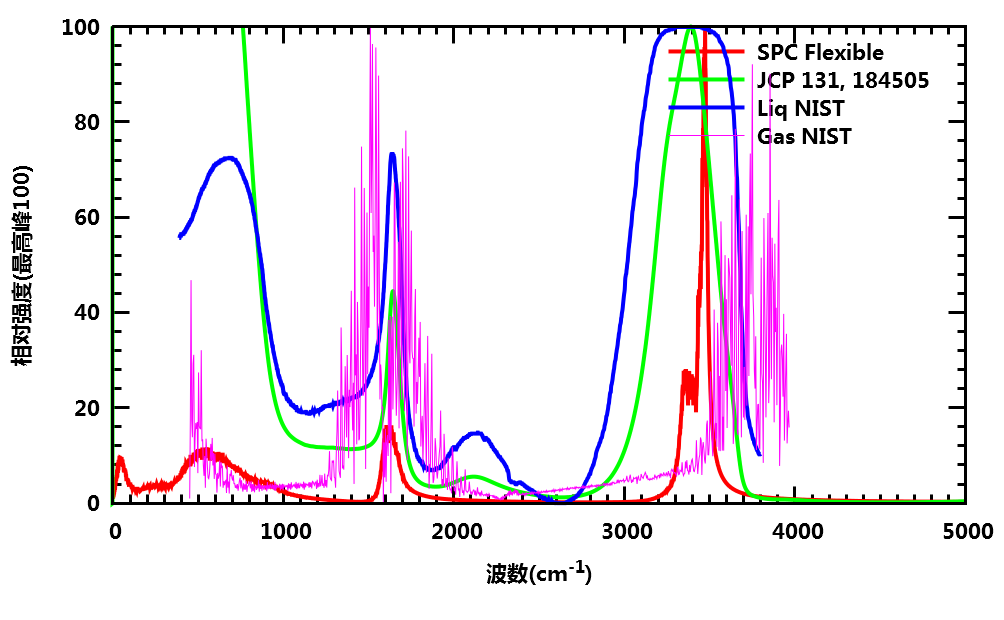
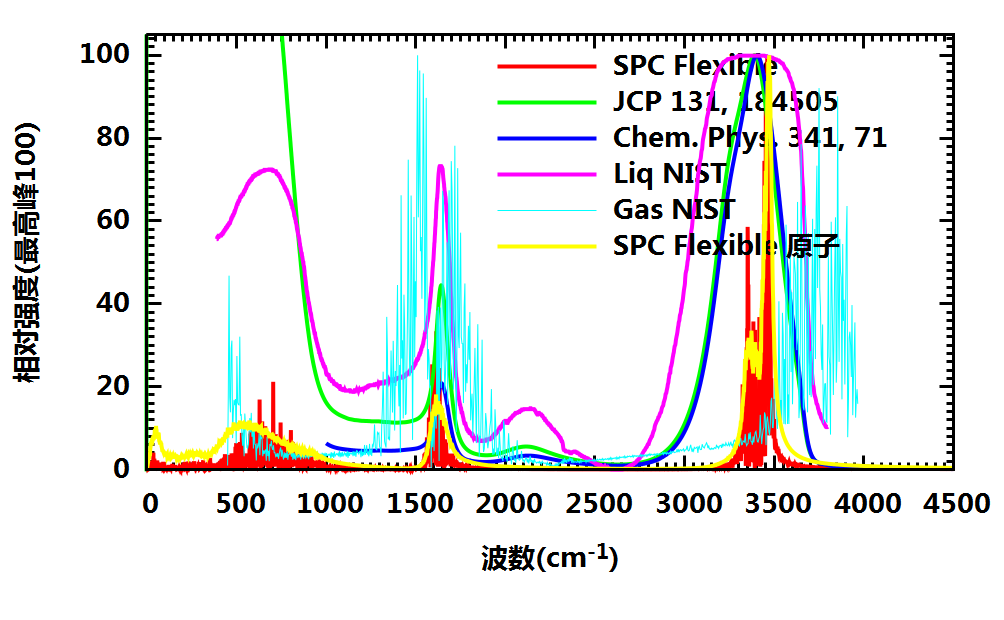
regular

Changed region(s): [[0.0, 0.0306, 0.988, 0.95]]

diff --git a/_posts/2017-08-20-使用GROMACS计算红外光谱.md b/_posts/2017-08-20-使用GROMACS计算红外光谱.md
@@ -7,7 +7,8 @@
  - gmx
 ---
 
-- 2017-08-20 14:13:12
+- 2017-08-20 14:13:12 初稿
+- 2018-05-03 19:04:27 修订
 
 上一篇博文 [【整理】使用分子动力学模拟红外光谱](http://jerkwin.github.io/2017/08/16/%E6%95%B4%E7%90%86-%E4%BD%BF%E7%94%A8%E5%88%86%E5%AD%90%E5%8A%A8%E5%8A%9B%E5%AD%A6%E6%A8%A1%E6%8B%9F%E7%BA%A2%E5%A4%96%E5%85%89%E8%B0%B1/) 中整理了根据分子动力学模拟计算红外光谱的理论基础知识, 既然已经知道了计算方法, 剩下的就是如何实现了.
 
@@ -60,7 +61,7 @@
 43
 44
 45
-46</pre></div></td><td class="code"><div class="highlight" style="background: #f8f8f8"><pre style="line-height: 125%"><span></span><span style="color: #B8860B">tpr</span><span style="color: #666666">=</span>topol.tpr  <span style="color: #008800; font-style: italic"># 拓扑文件名称</span>
+46</pre></div></td><td class="code"><div class="highlight"><pre style="line-height:125%"><span></span><span style="color: #B8860B">tpr</span><span style="color: #666666">=</span>topol.tpr  <span style="color: #008800; font-style: italic"># 拓扑文件名称</span>
 <span style="color: #B8860B">chg</span><span style="color: #666666">=</span>charge.dat <span style="color: #008800; font-style: italic"># 电荷文件名称</span>
 
 gmx dump -quiet -s <span style="color: #B8860B">$tpr</span> | awk -v <span style="color: #B8860B">chg</span><span style="color: #666666">=</span><span style="color: #B8860B">$chg</span> <span style="color: #BB4444">&#39;</span>
@@ -113,7 +114,7 @@ gmx dump -quiet -s <span style="color: #B8860B">$tpr</span> | awk -v <span style
 
 首先将不易读写的trr文件转换为容易读写的gro文件, 并尽量保存精度(`-ndec`的值自己把握)
 
-<div class="highlight" style="background:#f8f8f8"><pre style="line-height:125%"><span style="color:#B8860B">gmx </span>trjconv<span style="color:#666666"> -f </span>traj.trr<span style="color:#666666"> -o </span>traj_v.gro<span style="color:#666666"> -ndec </span>9
+<div class="highlight"><pre style="line-height:125%"><span style="color:#A2F">gmx</span> trjconv <span style="color:#666">-f</span> traj.trr <span style="color:#666">-o</span> traj_v.gro <span style="color:#666">-ndec</span> 9
 </pre></div>
 
 然后将其中的速度乘上前面得到的电荷值, 得到新的gro文件, 再将替换后的gro文件转换为trr文件
@@ -136,32 +137,42 @@ gmx dump -quiet -s <span style="color: #B8860B">$tpr</span> | awk -v <span style
 16
 17
 18
-19</pre></div></td><td class="code"><div class="highlight" style="background: #f8f8f8"><pre style="line-height: 125%"><span></span><span style="color: #B8860B">chg</span><span style="color: #666666">=</span>charge.dat    <span style="color: #008800; font-style: italic"># 电荷文件</span>
+19
+20
+21
+22
+23
+24</pre></div></td><td class="code"><div class="highlight"><pre style="line-height:125%"><span></span><span style="color: #B8860B">chg</span><span style="color: #666666">=</span>charge.dat    <span style="color: #008800; font-style: italic"># 电荷文件</span>
 <span style="color: #B8860B">vgro</span><span style="color: #666666">=</span>traj_v.gro   <span style="color: #008800; font-style: italic"># 含速度的gro文件</span>
 <span style="color: #B8860B">vqgro</span><span style="color: #666666">=</span>traj_vq.gro <span style="color: #008800; font-style: italic"># 含vq的gro文件</span>
 <span style="color: #B8860B">vqtrr</span><span style="color: #666666">=</span>traj_vq.trr <span style="color: #008800; font-style: italic"># 含vq的trr文件</span>
 
-awk -v <span style="color: #B8860B">chg</span><span style="color: #666666">=</span><span style="color: #B8860B">$chg</span> <span style="color: #BB4444">&#39;</span>
-BEGIN <span style="color: #666666">{</span> <span style="color: #AA22FF; font-weight: bold">while</span><span style="color: #666666">(</span>getline&lt;chg<span style="color: #666666">)</span> <span style="color: #AA22FF; font-weight: bold">if</span><span style="color: #666666">(</span><span style="color: #B8860B">$1</span>!~/#/<span style="color: #666666">)</span> q<span style="color: #666666">[</span><span style="color: #B8860B">$1</span><span style="color: #666666">]=</span><span style="color: #B8860B">$2</span> <span style="color: #666666">}</span>
+awk -v <span style="color: #B8860B">chg</span><span style="color: #666666">=</span><span style="color: #B8860B">$chg</span> <span style="color: #BB4444">&#39;&#39;</span>
+BEGIN <span style="color: #666666">{</span>
+	<span style="color: #B8860B">FMT</span><span style="color: #666666">=</span><span style="color: #BB4444">&quot;%s%15.9f%15.9f%15.9f\n&quot;</span>
+	<span style="color: #B8860B">FMT</span><span style="color: #666666">=</span><span style="color: #BB4444">&quot;%s%8.1E%8.1E%8.1E\n&quot;</span>
+	<span style="color: #AA22FF; font-weight: bold">while</span><span style="color: #666666">(</span>getline&lt;chg<span style="color: #666666">)</span> <span style="color: #AA22FF; font-weight: bold">if</span><span style="color: #666666">(</span><span style="color: #B8860B">$1</span>!~/#/<span style="color: #666666">)</span> q<span style="color: #666666">[</span><span style="color: #B8860B">$1</span><span style="color: #666666">]=</span><span style="color: #B8860B">$2</span>
+<span style="color: #666666">}</span>
 <span style="color: #666666">{</span>	print
 	getline Natm; print Natm
+	<span style="color: #B8860B">qvx</span><span style="color: #666666">=</span>0; <span style="color: #B8860B">qvy</span><span style="color: #666666">=</span>0; <span style="color: #B8860B">qvz</span><span style="color: #666666">=</span>0
 	<span style="color: #AA22FF; font-weight: bold">for</span><span style="color: #666666">(</span><span style="color: #B8860B">i</span><span style="color: #666666">=</span>1; i&lt;<span style="color: #666666">=</span>Natm; i++<span style="color: #666666">)</span> <span style="color: #666666">{</span>
 		getline
-		<span style="color: #AA22FF">printf</span> <span style="color: #BB4444">&quot;%s%15.9f%15.9f%15.9f%15.9f%15.9f%15.9f\n&quot;</span>, <span style="color: #BB6622; font-weight: bold">\</span>
-			substr<span style="color: #666666">(</span><span style="color: #B8860B">$0</span>,1,20<span style="color: #666666">)</span>, <span style="color: #AA22FF; font-weight: bold">$(</span>NF-5<span style="color: #AA22FF; font-weight: bold">)</span>,  <span style="color: #AA22FF; font-weight: bold">$(</span>NF-4<span style="color: #AA22FF; font-weight: bold">)</span>, <span style="color: #AA22FF; font-weight: bold">$(</span>NF-3<span style="color: #AA22FF; font-weight: bold">)</span>, <span style="color: #BB6622; font-weight: bold">\</span>
-			q<span style="color: #666666">[</span>i<span style="color: #666666">]</span>*<span style="color: #AA22FF; font-weight: bold">$(</span>NF-2<span style="color: #AA22FF; font-weight: bold">)</span>, q<span style="color: #666666">[</span>i<span style="color: #666666">]</span>*<span style="color: #AA22FF; font-weight: bold">$(</span>NF-1<span style="color: #AA22FF; font-weight: bold">)</span>, q<span style="color: #666666">[</span>i<span style="color: #666666">]</span>*<span style="color: #B8860B">$NF</span>
+		qvx +<span style="color: #666666">=</span> q<span style="color: #666666">[</span>i<span style="color: #666666">]</span>*<span style="color: #AA22FF; font-weight: bold">$(</span>NF-2<span style="color: #AA22FF; font-weight: bold">)</span>; qvy +<span style="color: #666666">=</span> q<span style="color: #666666">[</span>i<span style="color: #666666">]</span>*<span style="color: #AA22FF; font-weight: bold">$(</span>NF-1<span style="color: #AA22FF; font-weight: bold">)</span>; qvz +<span style="color: #666666">=</span> q<span style="color: #666666">[</span>i<span style="color: #666666">]</span>*<span style="color: #B8860B">$NF</span>
+		<span style="color: #AA22FF; font-weight: bold">if</span><span style="color: #666666">(</span>i!<span style="color: #666666">=</span>Natm<span style="color: #666666">)</span> <span style="color: #AA22FF">printf</span> FMT, substr<span style="color: #666666">(</span><span style="color: #B8860B">$0</span>,1,44<span style="color: #666666">)</span>, 0,0,0
+		<span style="color: #AA22FF; font-weight: bold">else</span> <span style="color: #AA22FF">printf</span> FMT, substr<span style="color: #666666">(</span><span style="color: #B8860B">$0</span>,1,44<span style="color: #666666">)</span>, qvx, qvy, qvz
 	<span style="color: #666666">}</span>
 	getline; print
 <span style="color: #666666">}</span> <span style="color: #BB4444">&#39;</span> <span style="color: #B8860B">$vgro</span> &gt;<span style="color: #B8860B">$vqgro</span>
 
-gmx trjconv -f <span style="color: #B8860B">$vqgro</span> -o <span style="color: #B8860B">$vqtrr</span>
+<span style="color: #AA22FF">echo</span> <span style="color: #666666">0</span> | gmx trjconv -f <span style="color: #B8860B">$vqgro</span> -o <span style="color: #B8860B">$vqtrr</span>
 </pre></div>
 </td></tr></table>
 
 现在我们就可以使用替换速度值后的trr文件计算光谱了
 
-<div class="highlight" style="background:#f8f8f8"><pre style="line-height:125%"><span style="color:#B8860B">gmx </span>velacc<span style="color:#666666"> -f </span>traj_vq.trr<span style="color:#666666"> -s </span>topol.tpr<span style="color:#666666"> -n </span>index.ndx<span style="color:#666666"> -os
-</span></pre></div>
+<div class="highlight"><pre style="line-height:125%"><span style="color:#A2F">gmx</span> velacc <span style="color:#666">-f</span> traj_vq.trr <span style="color:#666">-s</span> topol.tpr <span style="color:#666">-n</span> index.ndx <span style="color:#666">-os</span>
+</pre></div>
 
 ## 说明
 
@@ -186,6 +197,7 @@ gmx trjconv -f <span style="color: #B8860B">$vqgro</span> -o <span style="color:
 对比的实验光谱
 
 - JCP 131, 184505: Jean-joseph Max, Camille Chapados; J. Chem. Phys. 131(18):184505, 2009; 10.1063/1.3258646
+- Chem. Phys. 341, 71
 - Liq NIST: [NIST 液态水红外光谱](http://webbook.nist.gov/cgi/cbook.cgi?ID=C7732185&Units=SI&Type=IR-SPEC&Index=1#IR-SPEC)
 - Gas NIST: [NIST 气态水红外光谱](http://webbook.nist.gov/cgi/cbook.cgi?ID=C7732185&Type=IR-SPEC&Index=0#IR-SPEC)
 
@@ -193,7 +205,14 @@ gmx trjconv -f <span style="color: #B8860B">$vqgro</span> -o <span style="color:
 
 1. Vishal Agarwal, George W. Huber, W. Curtis Conner, Scott M. Auerbach; J. Chem. Phys. 135(13):134506, 2011; 10.1063/1.3646306
 2. Jean-joseph Max, Camille Chapados; J. Chem. Phys. 131(18):184505, 2009; 10.1063/1.3258646
+3. Matej Praprotnik, Dušanka Janežič, Janez Mavri; J. Phys. Chem. A 108(50):11056-11062, 2004; 10.1021/jp046158d
 3. Timo Marcel Daniel Graen; Anharmonic Infrared Spectra From Short Qm/mm Simulations
 4. 王程超, 谭建宇, 杨家跃, 刘林华; 水和重水红外吸收光谱的 Car-Parrinello 分子动力学模拟; 科学通报, 60(31) 3014-3020, 2015
 
 辞不尽言, 言不尽意, 惟意惟一, 愤启悱发. 如此吧.
+
+## 订正
+
+- 仔细查看`velacc`计算相关函数的方法, 发现并不是先计算体系整体的电流矢量, 然后计算其相关, 而是对每个粒子的电流矢量计算相关, 然后进行平均, 因此, 默认情况下所得的光谱严格来说是不对的. 简单的解决方法是将整体的电流矢量写入单个原子的速度中. 代码已经照此更新.
+
+- GROMACS自2016版本起`trjconv`不再支持`-ndec`选项, 说明见[Removed variable-precision .gro writing](http://manual.gromacs.org/documentation/2016.1/ReleaseNotes/release-notes.html#removed-variable-precision-gro-writing)及其讨论. 如果要使用高精度的数据, 可以换用`g96`格式, 或者自己编写程序输出`trr`轨迹.
